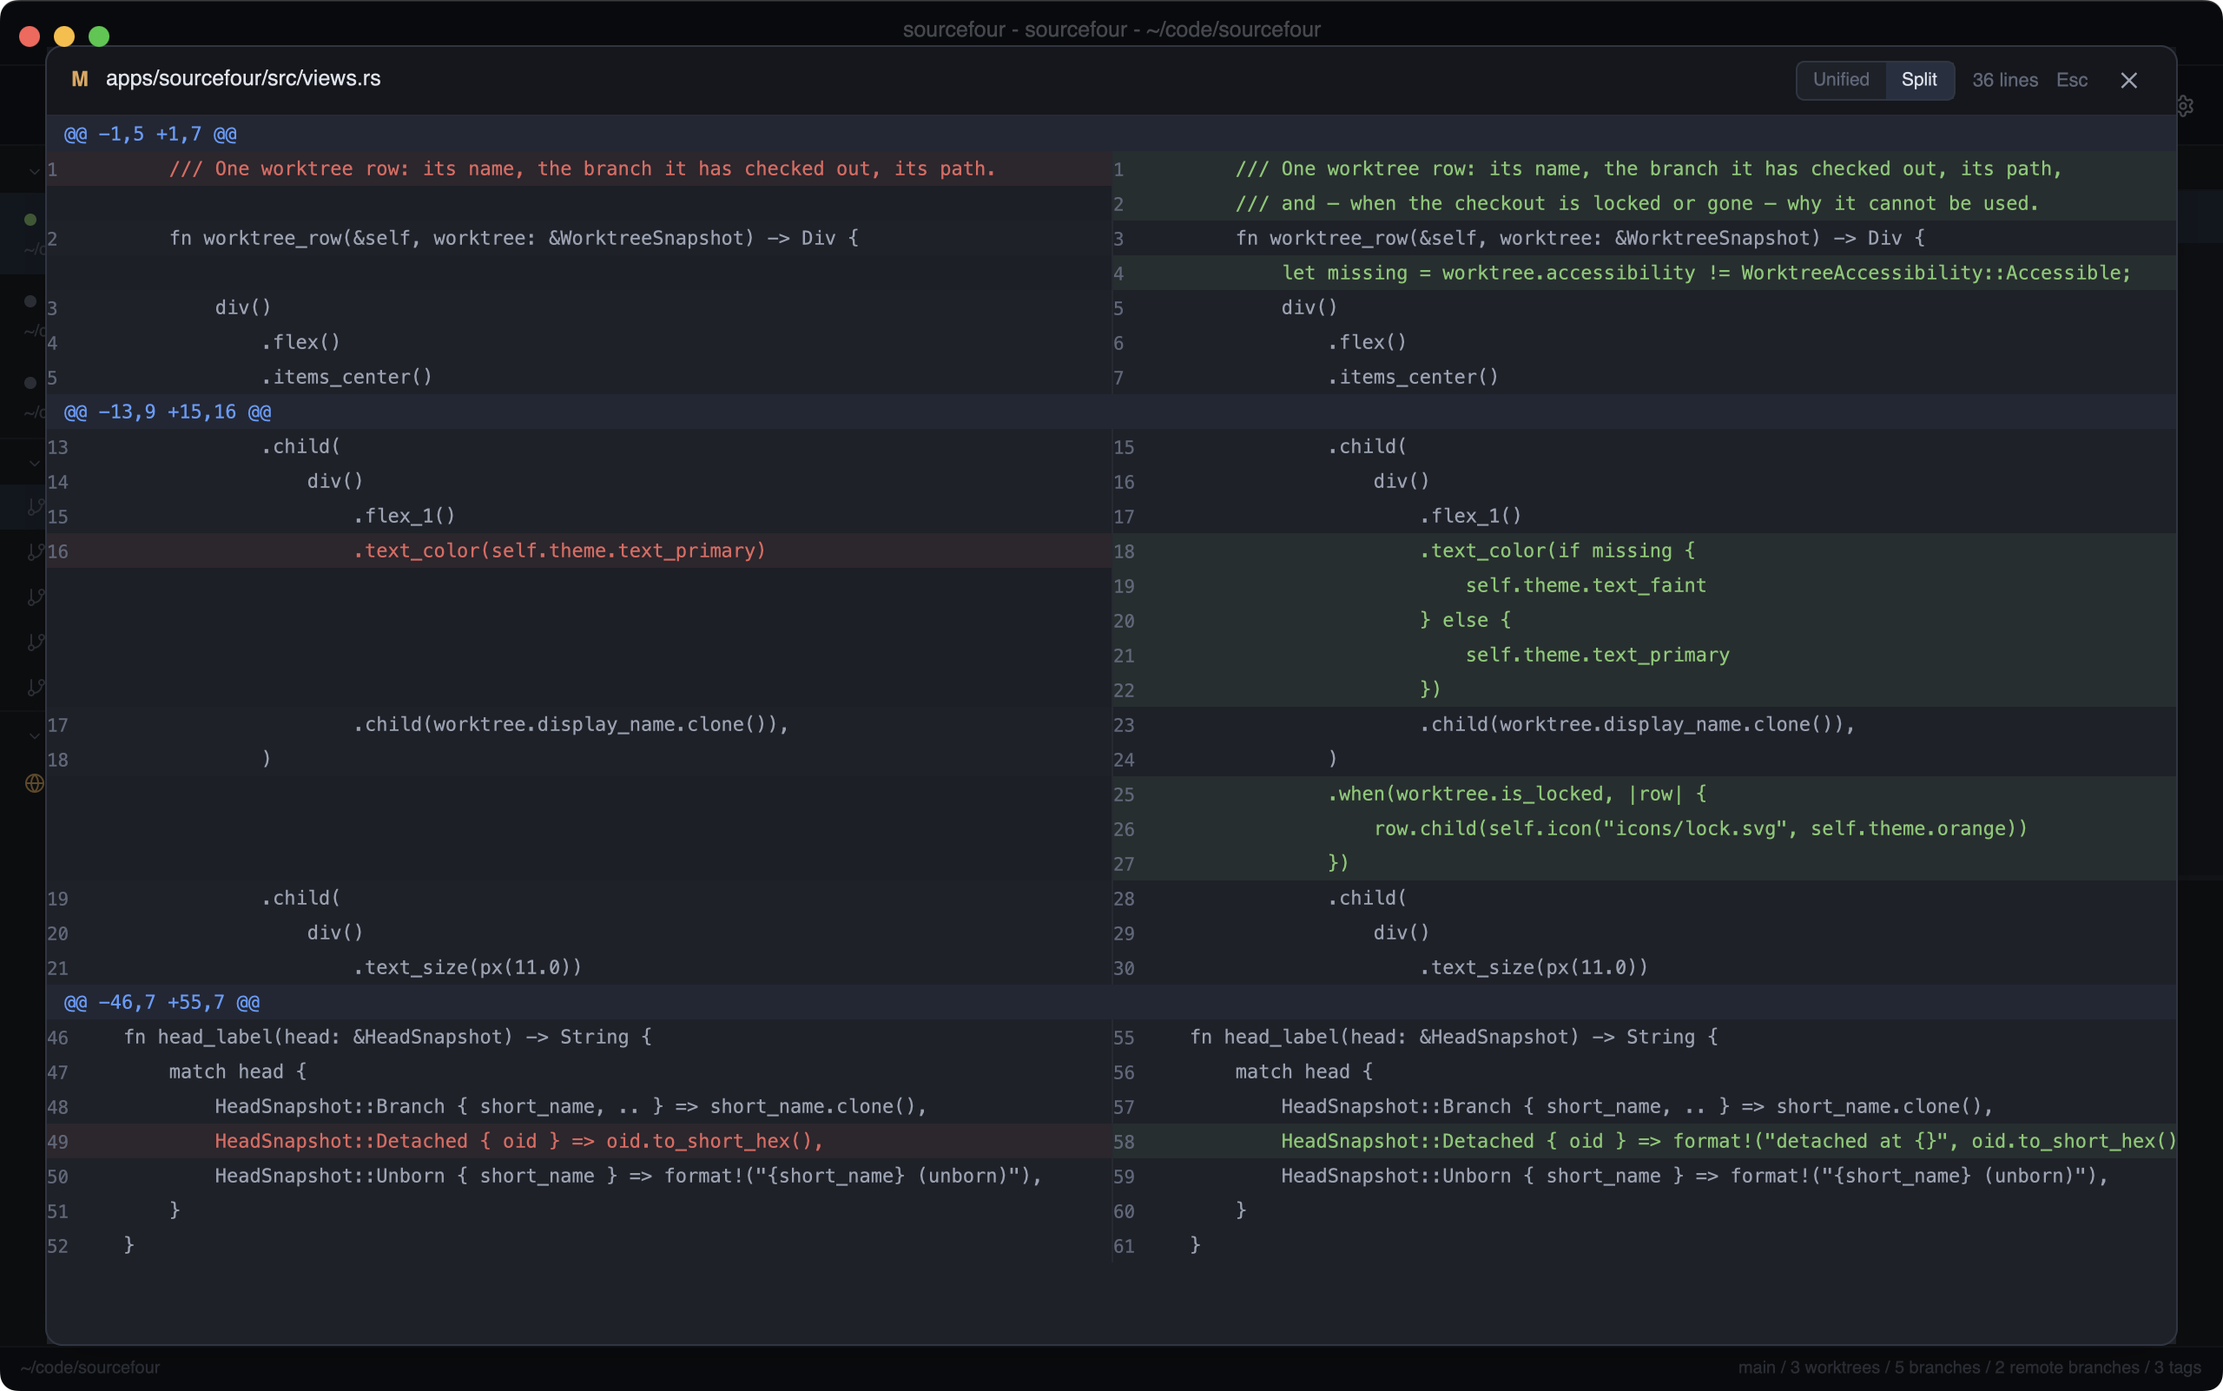
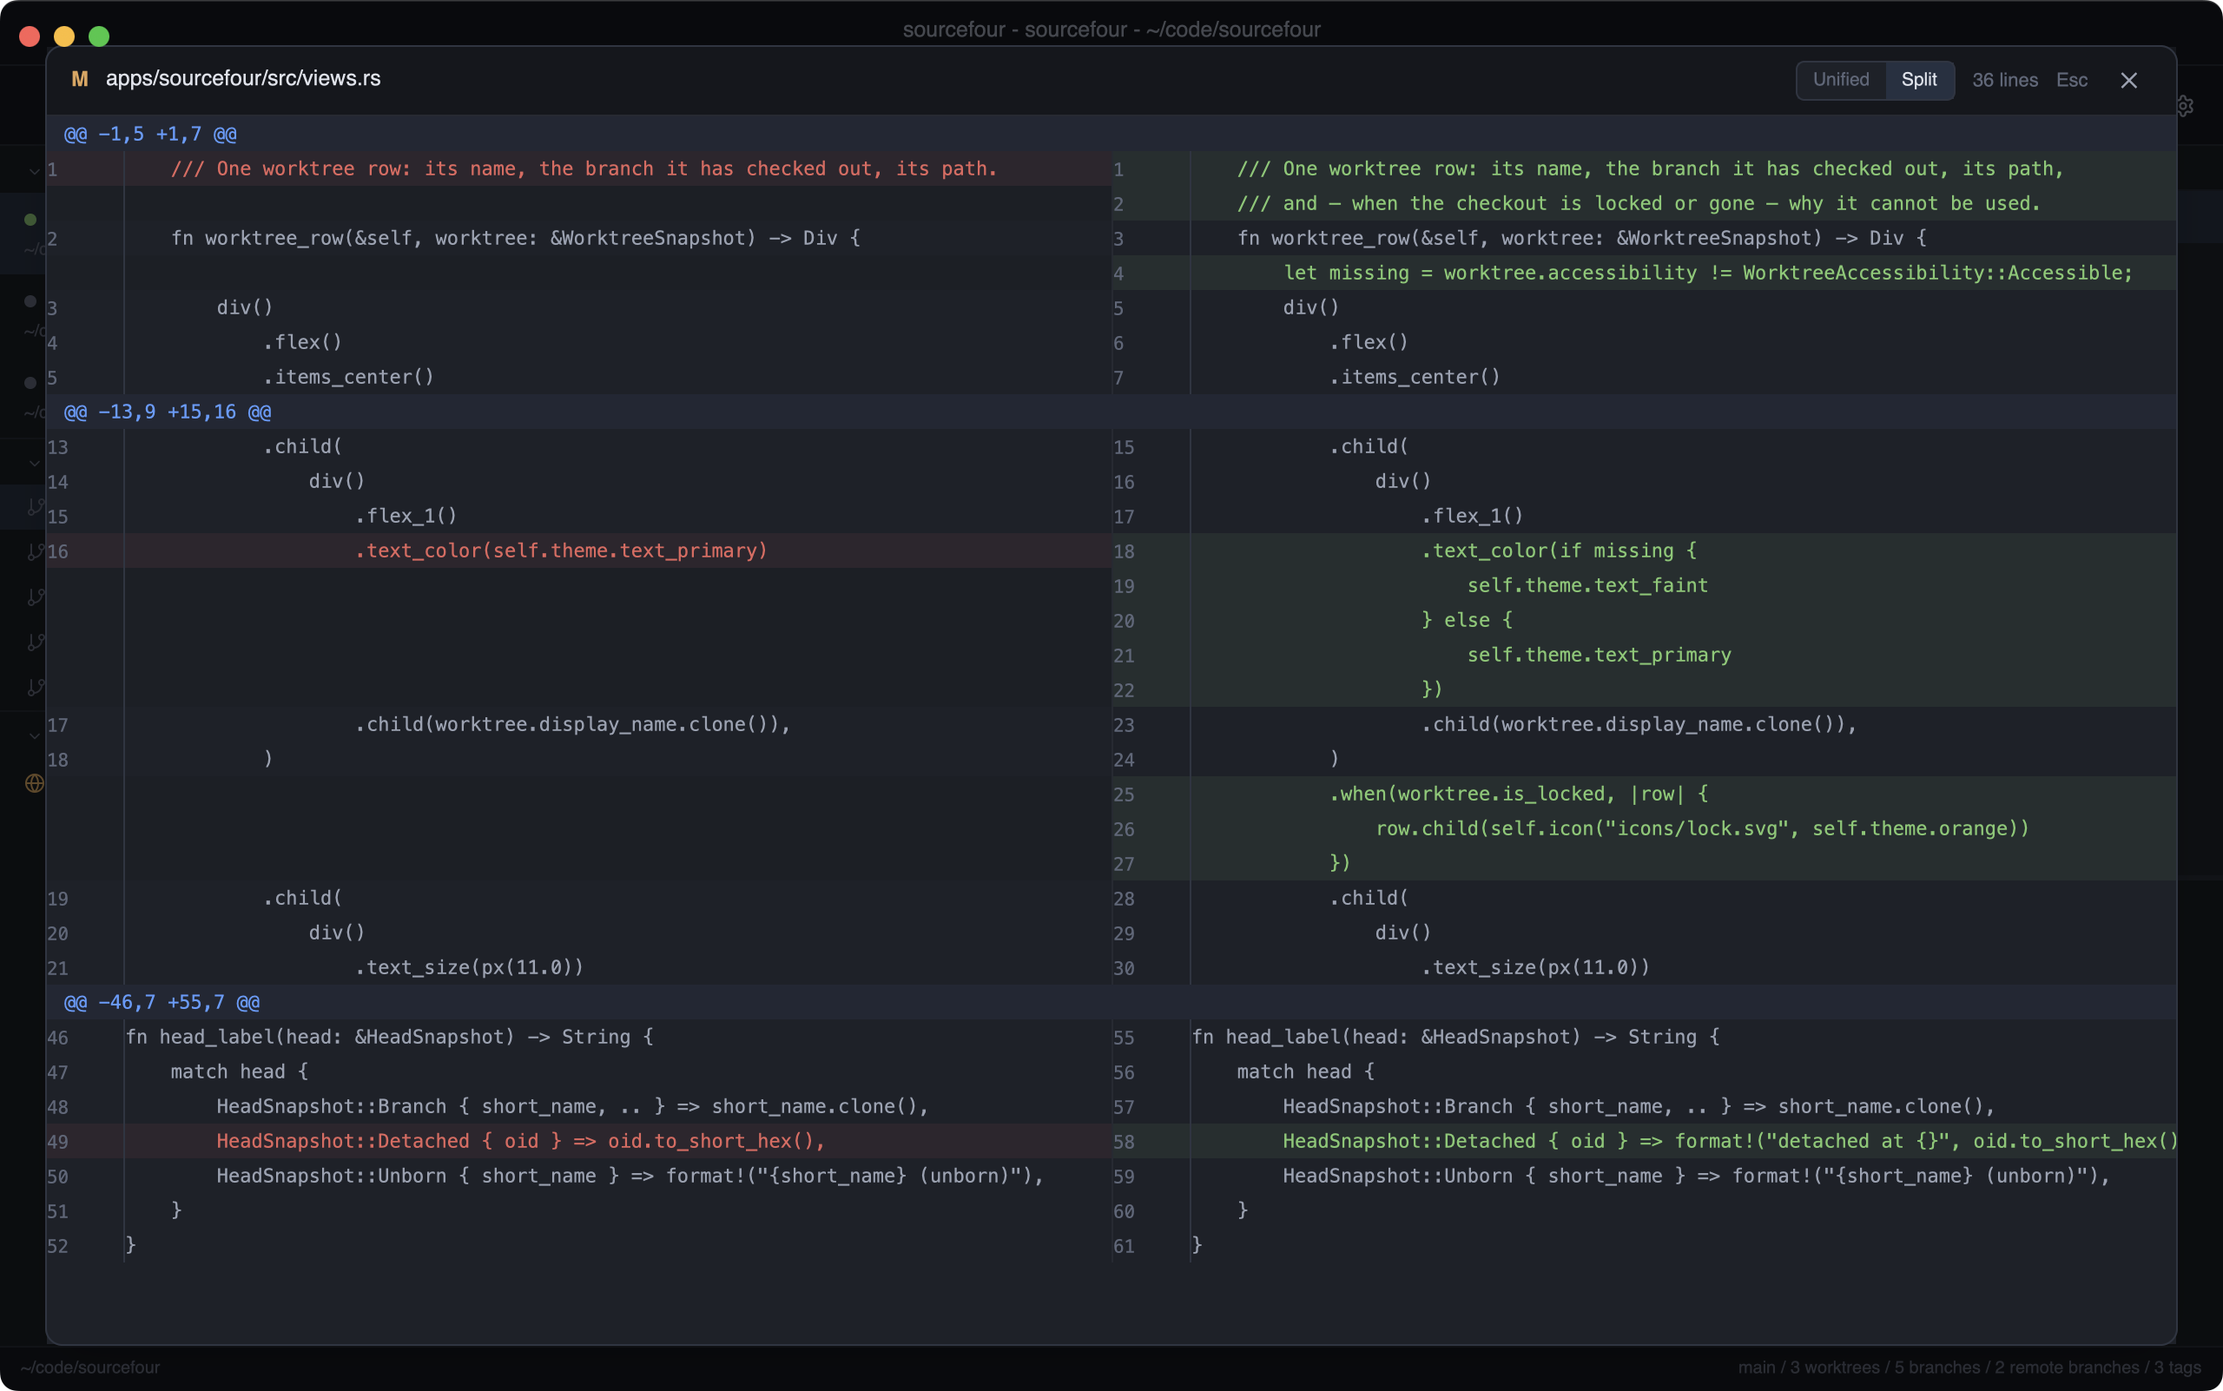
feat(app): a gutter rule in the diff, and a palette with a map
The diff's line numbers now end at a 1px border_strong rule in both
layouts — pausing at hunk banners in unified, running through empty
halves in split — so the gutter reads as its own region without a
surface change.

theme.rs becomes the documented palette: an ASCII anatomy of the
window and of an overlay labeled with the token that paints each
region, an explainer of the surface/border/ink ladders, and the
recurring color derivations extracted into semantic helpers —
scrim(), gutter_rule(), tint_added()/tint_removed(),
chip_border()/chip_fill(), hud(), grab_active()/grab_hover().
Every catalogued call site migrates off inline opacity math; chip
opacities normalize from a 0.4-0.45 / 0.08-0.12 spread to 45%/10%.
Goldens re-recorded and double-compared.

diff --git a/apps/sourcefour/src/theme.rs b/apps/sourcefour/src/theme.rs
@@ -1,3 +1,60 @@
+//! The palette, and the map of where each color belongs.
+//!
+//! Every color in the app comes from here — either a `Theme` field (a token)
+//! or a semantic helper on `Theme` (a derived modifier). Views never invent
+//! their own `opacity(..)` math for a recurring role; if a new role recurs,
+//! it gets a named helper here first. The website's `brand.css` mirrors these
+//! values — change one, change the other.
+//!
+//! # Where each token paints
+//!
+//! ```text
+//! the window                                  an overlay (diff, settings,
+//! ┌─────────────────────────────────────┐     actions, branch dialog)
+//! │ titlebar                  bg_chrome │
+//! │ toolbar                   bg_chrome │     ░░░░░░ scrim() ░░░░░░░░░░░
+//! ├──────────┬──────┬───────────────────┤     ░┌────────────────────┐░
+//! │ sidebar  │ graph│ history   bg_list │     ░│ header   bg_chrome │░
+//! │ bg_panel │      │ hover    bg_hover │     ░├────┬───────────────┤░
+//! │          │      │ selected          │     ░│ 12 │ code  bg_list │░
+//! │          │      │       bg_selected │     ░│ 13 │+ added line   │░
+//! │          │      ├───────────────────┤     ░│    │- removed line │░
+//! │          │      │ details  bg_panel │     ░└────┴───────────────┘░
+//! ├──────────┴──────┴───────────────────┤     ░░░░░░░░│░░░░░░░░░░░░░░░
+//! │ status bar                bg_chrome │       gutter_rule() divider,
+//! └─────────────────────────────────────┘       tint_added()/removed()
+//! ```
+//!
+//! # The ladders
+//!
+//! Surfaces, recessed to raised — pick by how far forward a region sits:
+//! `bg_page` (the void behind everything) → `bg_chrome` (window furniture:
+//! bars, headers) → `bg_panel` (framed regions: sidebar, details, overlay
+//! frames) → `bg_list` (content being read: history, diffs, logs) →
+//! `bg_hover` (transient emphasis) → `bg_selected` (the current row).
+//!
+//! Borders: `border` between regions that already differ in surface;
+//! `border_strong` when the two sides share a surface and the line itself
+//! must carry the separation (input outlines, the diff gutter rule).
+//!
+//! Ink: `text_primary` for what the user came to read, `text_secondary`
+//! for supporting matter, `text_faint` for furniture (line numbers, hints).
+//!
+//! Status colors: `green` success/additions · `red` failure/deletions ·
+//! `orange` in-progress/warnings · `purple` tags/detached · `accent`
+//! interaction and selection. `graph_lanes` recycles them for lanes.
+//!
+//! # Derived modifiers
+//!
+//! | helper                      | use it for                                |
+//! |-----------------------------|-------------------------------------------|
+//! | `scrim()`                   | the backdrop behind every overlay         |
+//! | `gutter_rule()`             | line-number ↔ code divider in diffs       |
+//! | `tint_added()`/`removed()`  | washes behind diff lines                  |
+//! | `chip_border()`/`chip_fill()` | tinted badges: CURRENT, refs, PRs, chips |
+//! | `hud()`                     | floating labels over media                |
+//! | `grab_active()`/`grab_hover()` | splitters under drag / pointer         |
+
 use gpui::{Hsla, rgb};
 use sourcefour_model::GRAPH_COLOR_COUNT;
 
@@ -43,6 +100,59 @@ pub(crate) struct Theme {
 }
 
 impl Theme {
+    /// The modal backdrop behind every overlay: dims the window without
+    /// hiding it. Used by the diff, settings, actions and branch dialogs.
+    #[expect(clippy::unused_self, reason = "a palette role, kept on Theme")]
+    pub(crate) fn scrim(&self) -> Hsla {
+        gpui::black().opacity(0.55)
+    }
+
+    /// The divider between line numbers and code in the diff overlay —
+    /// `border_strong`, so it stays visible over the add/del washes.
+    pub(crate) fn gutter_rule(&self) -> Hsla {
+        self.border_strong
+    }
+
+    /// The wash behind an added diff line. A tint over `bg_list`, never a
+    /// surface of its own.
+    pub(crate) fn tint_added(&self) -> Hsla {
+        self.green.opacity(0.08)
+    }
+
+    /// The wash behind a removed diff line.
+    pub(crate) fn tint_removed(&self) -> Hsla {
+        self.red.opacity(0.08)
+    }
+
+    /// Border of a tinted badge (CURRENT, ref chips, PR chips, run chips):
+    /// the badge's own color at 45%, over `chip_fill` of the same color.
+    #[expect(clippy::unused_self, reason = "a palette role, kept on Theme")]
+    pub(crate) fn chip_border(&self, color: Hsla) -> Hsla {
+        color.opacity(0.45)
+    }
+
+    /// Fill of a tinted badge: the badge's own color at 10%.
+    #[expect(clippy::unused_self, reason = "a palette role, kept on Theme")]
+    pub(crate) fn chip_fill(&self, color: Hsla) -> Hsla {
+        color.opacity(0.1)
+    }
+
+    /// Floating labels over media, like the image diff's Before/After
+    /// chips: chrome at 85% so the picture shows through.
+    pub(crate) fn hud(&self) -> Hsla {
+        self.bg_chrome.opacity(0.85)
+    }
+
+    /// A splitter being dragged.
+    pub(crate) fn grab_active(&self) -> Hsla {
+        self.accent.opacity(0.55)
+    }
+
+    /// A splitter under the pointer.
+    pub(crate) fn grab_hover(&self) -> Hsla {
+        self.accent.opacity(0.35)
+    }
+
     pub(crate) fn dark() -> Self {
         let accent = rgb(0x5b_9d_ff).into();
         let green = rgb(0x7e_c9_6f).into();

diff --git a/apps/sourcefour/src/views/diff.rs b/apps/sourcefour/src/views/diff.rs
@@ -224,7 +224,7 @@ impl SourcefourWindow {
                 .inset_0()
                 .flex()
                 .p(px(26.0))
-                .bg(gpui::black().opacity(0.55))
+                .bg(self.theme.scrim())
                 .on_click(cx.listener(|this, event: &gpui::ClickEvent, window, cx| {
                     // A slider or scrollbar drag released over the backdrop
                     // is the end of a drag, not a request to close.
@@ -506,7 +506,7 @@ impl SourcefourWindow {
             .px(px(6.0))
             .py(px(1.0))
             .rounded(px(4.0))
-            .bg(self.theme.bg_chrome.opacity(0.85))
+            .bg(self.theme.hud())
             .text_size(px(9.5))
             .font_weight(FontWeight::SEMIBOLD)
             .text_color(self.theme.text_faint)
@@ -686,16 +686,22 @@ impl SourcefourWindow {
         right: bool,
     ) -> Div {
         let base = div().flex_1().min_w(px(1.0)).h_full().flex().items_center();
+        let rule = || {
+            div()
+                .w(px(1.0))
+                .flex_none()
+                .h_full()
+                .bg(self.theme.gutter_rule())
+        };
         let Some(side) = side else {
-            return base.bg(self.theme.bg_panel.opacity(0.4));
+            return base
+                .bg(self.theme.bg_panel.opacity(0.4))
+                .child(div().w(px(44.0)).flex_none().h_full())
+                .child(rule());
         };
         let (text_color, background) = match side.kind {
-            DiffLineKind::Addition if right => {
-                (self.theme.green, Some(self.theme.green.opacity(0.08)))
-            }
-            DiffLineKind::Deletion if !right => {
-                (self.theme.red, Some(self.theme.red.opacity(0.08)))
-            }
+            DiffLineKind::Addition if right => (self.theme.green, Some(self.theme.tint_added())),
+            DiffLineKind::Deletion if !right => (self.theme.red, Some(self.theme.tint_removed())),
             _ => (self.theme.text_secondary, None),
         };
         base.when_some(background, gpui::Styled::bg)
@@ -712,6 +718,7 @@ impl SourcefourWindow {
                             .map_or_else(String::new, |number| number.to_string()),
                     ),
             )
+            .child(rule())
             .child(
                 div()
                     .flex_1()
@@ -823,8 +830,8 @@ impl SourcefourWindow {
     /// One rendered diff line: numbers, marker, and tinted content.
     pub(super) fn diff_line_row(&self, line: &DiffLine) -> Div {
         let (marker, text_color, background) = match line.kind {
-            DiffLineKind::Addition => ("+", self.theme.green, Some(self.theme.green.opacity(0.08))),
-            DiffLineKind::Deletion => ("-", self.theme.red, Some(self.theme.red.opacity(0.08))),
+            DiffLineKind::Addition => ("+", self.theme.green, Some(self.theme.tint_added())),
+            DiffLineKind::Deletion => ("-", self.theme.red, Some(self.theme.tint_removed())),
             DiffLineKind::Hunk => ("", self.theme.accent, Some(self.theme.bg_hover)),
             DiffLineKind::Meta | DiffLineKind::Marker => ("", self.theme.text_faint, None),
             DiffLineKind::Context => (" ", self.theme.text_secondary, None),
@@ -839,6 +846,13 @@ impl SourcefourWindow {
                 .text_color(self.theme.text_faint)
                 .child(value.map_or_else(String::new, |value| value.to_string()))
         };
+        // The gutter rule pauses on hunk headers, which read as full-width
+        // banners rather than numbered lines.
+        let rule = if matches!(line.kind, DiffLineKind::Hunk) {
+            gpui::transparent_black()
+        } else {
+            self.theme.gutter_rule()
+        };
         div()
             .h(px(20.0))
             .w_full()
@@ -847,6 +861,7 @@ impl SourcefourWindow {
             .when_some(background, gpui::Styled::bg)
             .child(number(line.old_line))
             .child(number(line.new_line))
+            .child(div().w(px(1.0)).flex_none().h_full().bg(rule))
             .child(
                 div()
                     .w(px(14.0))

diff --git a/apps/sourcefour/src/views/actions.rs b/apps/sourcefour/src/views/actions.rs
@@ -654,7 +654,7 @@ impl SourcefourWindow {
                 .inset_0()
                 .flex()
                 .p(px(26.0))
-                .bg(gpui::black().opacity(0.55))
+                .bg(self.theme.scrim())
                 .on_click(cx.listener(|this, event: &gpui::ClickEvent, window, cx| {
                     let (down, up) = (event.down.position, event.up.position);
                     if (down.x.0 - up.x.0).abs() > 3.0 || (down.y.0 - up.y.0).abs() > 3.0 {
@@ -790,8 +790,8 @@ impl SourcefourWindow {
                 .px(px(6.0))
                 .rounded(px(4.0))
                 .border_1()
-                .border_color(color.opacity(0.4))
-                .bg(color.opacity(0.08))
+                .border_color(self.theme.chip_border(color))
+                .bg(self.theme.chip_fill(color))
                 .text_size(px(10.0))
                 .text_color(color)
                 .child(label)

diff --git a/apps/sourcefour/src/views/chrome.rs b/apps/sourcefour/src/views/chrome.rs
@@ -335,13 +335,13 @@ impl SourcefourWindow {
             // The graph divider floats over content, so it only shows itself
             // when interacted with; the panel dividers read as borders.
             .bg(if dragging {
-                self.theme.accent.opacity(0.55)
+                self.theme.grab_active()
             } else if matches!(splitter, Splitter::Graph) {
                 gpui::transparent_black()
             } else {
                 self.theme.border
             })
-            .hover(|style| style.bg(self.theme.accent.opacity(0.35)))
+            .hover(|style| style.bg(self.theme.grab_hover()))
             .on_mouse_down(
                 gpui::MouseButton::Left,
                 cx.listener(move |this, _, _, cx| {

diff --git a/apps/sourcefour/src/views/sidebar.rs b/apps/sourcefour/src/views/sidebar.rs
@@ -429,8 +429,8 @@ impl SourcefourWindow {
                             .items_center()
                             .rounded(px(3.0))
                             .border_1()
-                            .border_color(self.theme.accent.opacity(0.45))
-                            .bg(self.theme.accent.opacity(0.12))
+                            .border_color(self.theme.chip_border(self.theme.accent))
+                            .bg(self.theme.chip_fill(self.theme.accent))
                             .text_size(px(8.0))
                             .line_height(px(8.0))
                             .font_weight(FontWeight::SEMIBOLD)

diff --git a/apps/sourcefour/src/views/history_pane.rs b/apps/sourcefour/src/views/history_pane.rs
@@ -383,8 +383,8 @@ impl SourcefourWindow {
             .px(px(5.0))
             .rounded(px(4.0))
             .border_1()
-            .border_color(color.opacity(0.4))
-            .bg(color.opacity(0.1))
+            .border_color(self.theme.chip_border(color))
+            .bg(self.theme.chip_fill(color))
             .text_size(px(9.5))
             .text_color(color)
             .child(label.name.clone())

diff --git a/apps/sourcefour/src/views/branch_dialog.rs b/apps/sourcefour/src/views/branch_dialog.rs
@@ -130,7 +130,7 @@ impl SourcefourWindow {
                 .flex()
                 .items_center()
                 .justify_center()
-                .bg(gpui::black().opacity(0.55))
+                .bg(self.theme.scrim())
                 .on_click(cx.listener(|this, _, window, cx| {
                     this.close_branch_dialog(window, cx);
                 }))

diff --git a/apps/sourcefour/src/views/github.rs b/apps/sourcefour/src/views/github.rs
@@ -541,7 +541,7 @@ impl SourcefourWindow {
                 .px(px(4.0))
                 .rounded(px(3.0))
                 .border_1()
-                .border_color(color.opacity(0.45))
+                .border_color(self.theme.chip_border(color))
                 .text_size(px(9.0))
                 .text_color(color)
                 .cursor_pointer()

diff --git a/apps/sourcefour/src/settings_ui.rs b/apps/sourcefour/src/settings_ui.rs
@@ -63,7 +63,7 @@ pub(crate) fn overlay(
         .flex()
         .items_center()
         .justify_center()
-        .bg(gpui::black().opacity(0.55))
+        .bg(theme.scrim())
         .on_click(cx.listener(|this, _, window, cx| {
             this.close_settings(window, cx);
         }))
